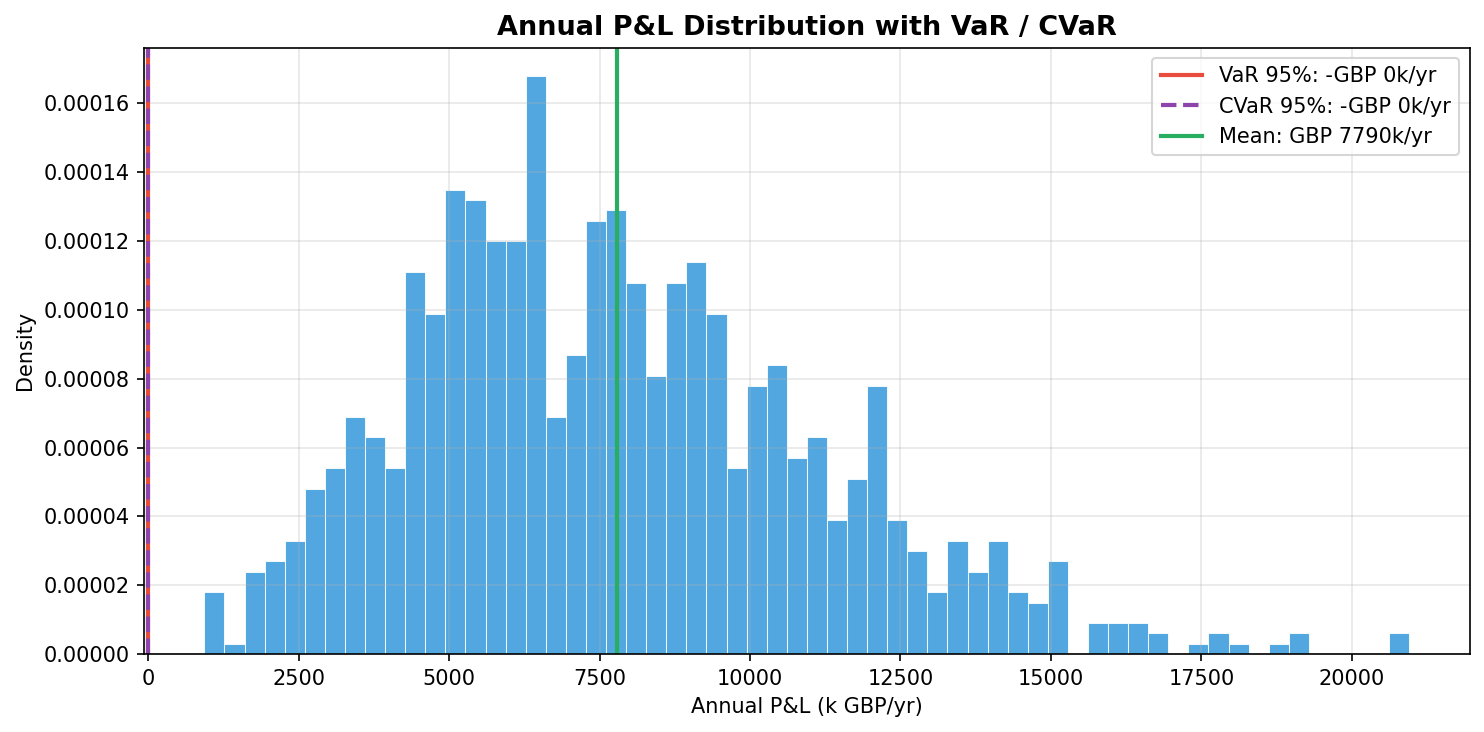
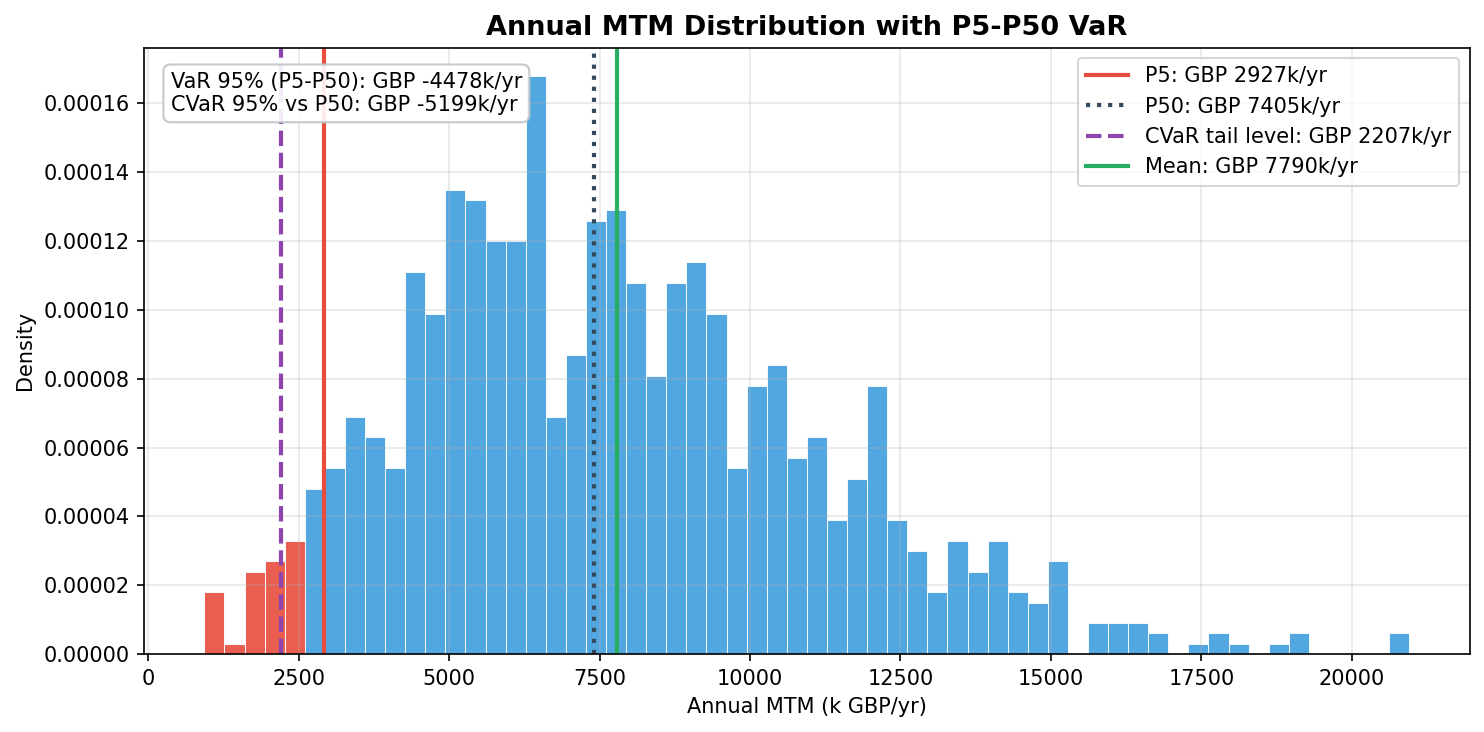
Use P5-P50 VaR definition

Changed region(s): [[0.093, 0.0, 0.7749, 0.9016], [0.7129, 0.0902, 0.9919, 0.2404], [0.465, 0.9317, 0.6199, 0.9918]]

diff --git a/streamlit_app.py b/streamlit_app.py
@@ -380,9 +380,9 @@ with tabs[4]:
         with c1:
             metric("Annual mean", money(risk95.get("mean_gbp_per_year", risk95.get("mean_gbp"))))
         with c2:
-            metric("VaR 95", money(risk95.get("var_gbp_per_year", risk95.get("var_gbp"))))
+            metric("VaR 95 (P5-P50)", money(risk95.get("var_gbp_per_year", risk95.get("var_gbp"))))
         with c3:
-            metric("CVaR 95", money(risk95.get("cvar_gbp_per_year", risk95.get("cvar_gbp"))))
+            metric("CVaR 95 (tail-P50)", money(risk95.get("cvar_gbp_per_year", risk95.get("cvar_gbp"))))
         with c4:
             metric("MTM GBP/MW/yr", money(mtm.get("total_mean")))
 